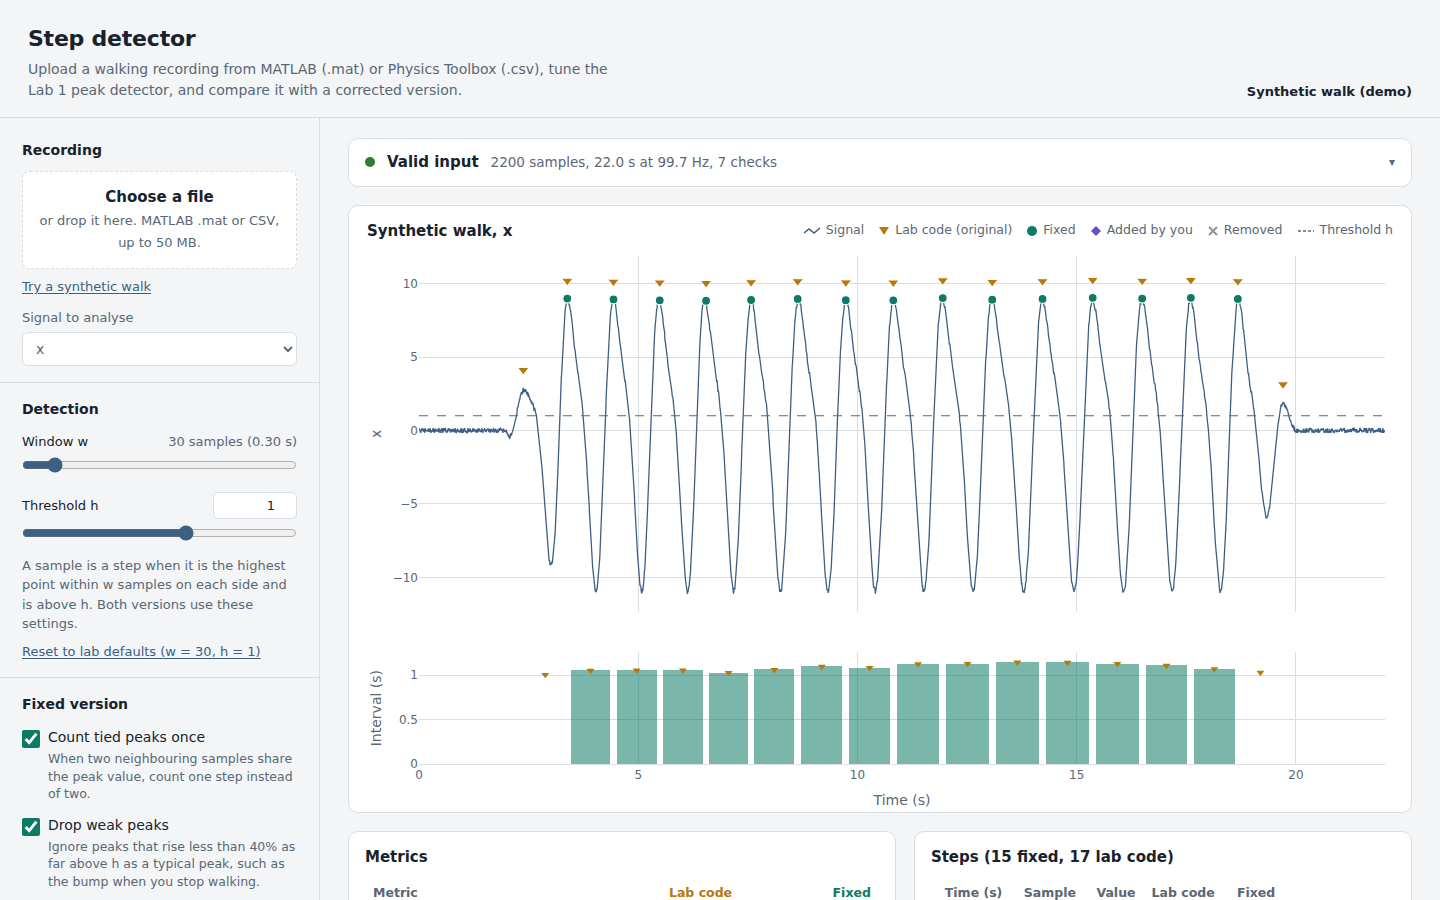
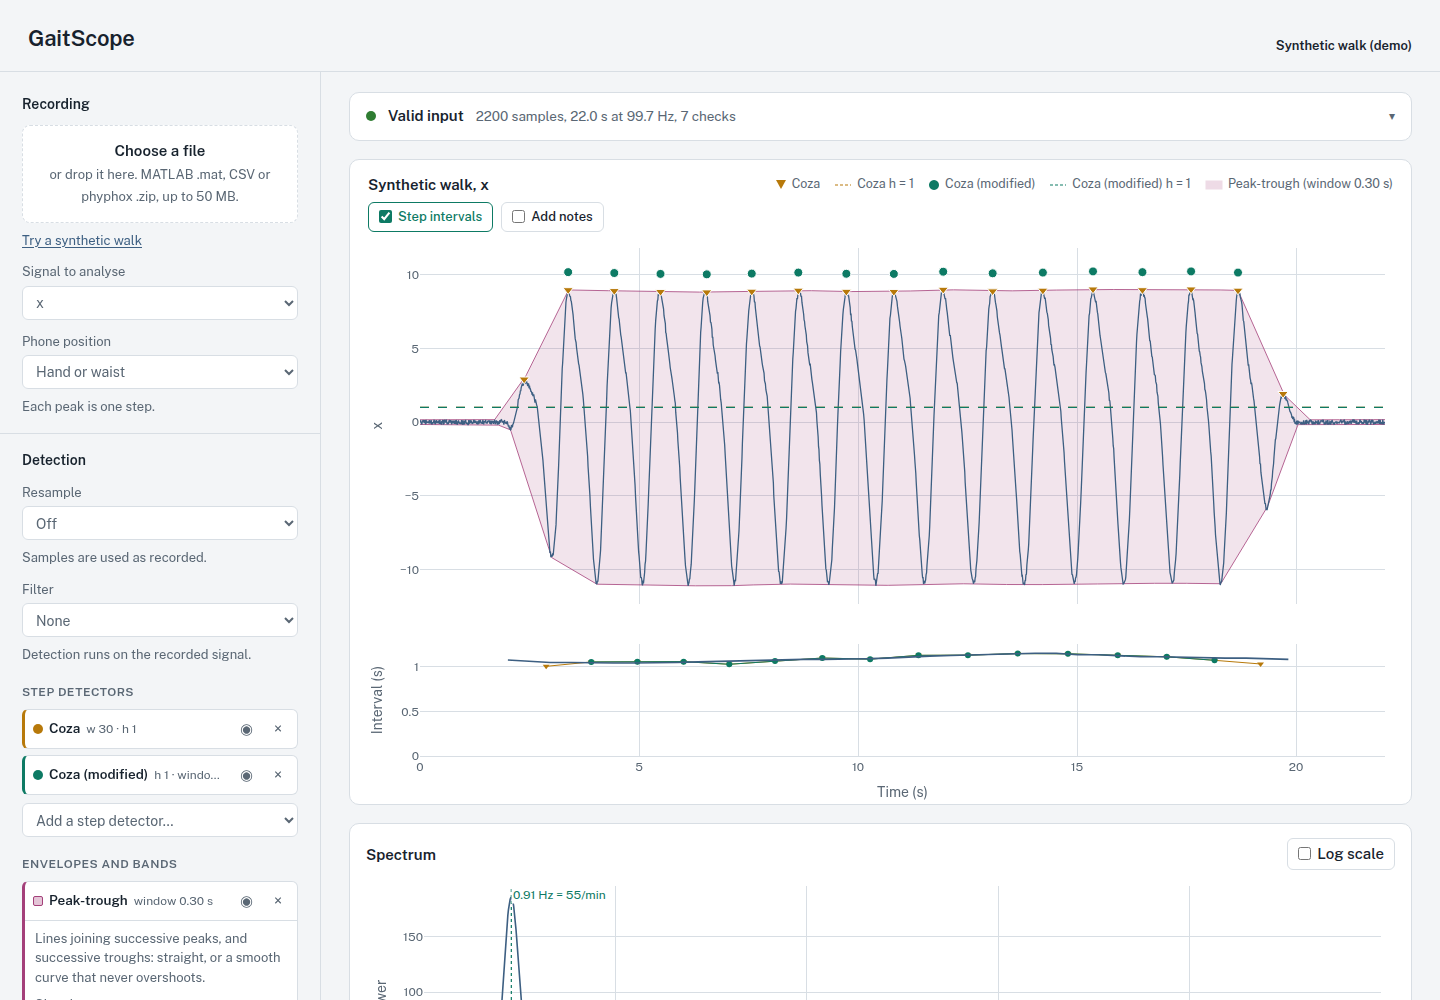
Rewrite the README for GaitScope as it is now
The README still opened with "Step detector" and a screenshot from the
first commit (one lab overlay, sliders, "Lab code" in the legend). It
now names the project, links the live page, and describes the current
scope in the order a user meets it: bring a walk, prepare the signal,
detect steps, read the results. Filters, the spectrum, the computed
vertical/horizontal signals, the steps table and record.js were
missing; the recorder says it hasn't been checked on a real phone yet
(#51); the GitHub Pages how-to gives way to the live link. A Credits
and licence section names Dr. Coza for Coza and the sample walk, and
Dr. Dianaty for Coza (modified), as the page does.

The screenshot is the synthetic walk at 1440 x 1000 in headless
Chromium, light theme, with Coza, Coza (modified), a peak-trough
envelope and the step intervals.

Claude-Session: https://claude.ai/code/session_01C5FY7wv8kPJg2FMx5dEAmw

diff --git a/README.md b/README.md
@@ -1,91 +1,123 @@
-# Step detector
+# GaitScope
 
-A browser dashboard and a Python port of the step-detection code from Lab 1 of
-*Wearable Devices for Sport, Health, and Wellness* (ASU, Fall 2026).
+Step detection and gait metrics from phone accelerometer recordings, in the browser.
 
-Upload a MATLAB `.mat` file, a [Physics Toolbox Sensor Suite](https://play.google.com/store/apps/details?id=com.chrystianvieyra.physicstoolboxsuite)
-CSV export or a [phyphox](https://phyphox.org) export zip. The dashboard checks that the file is usable, runs step detectors on it (Dr. Aurel
-Coza's Lab 1 peak detector, a corrected version, and textbook methods), and shows them
-side by side. You can then tune each one, add envelopes, pin notes, and export the
-results.
+**[Open GaitScope](https://soroushdianaty.com/gaitscope/)**. There is nothing to install, and
+your files never leave the browser.
 
-![Dashboard with a synthetic walk](docs/screenshot.png)
+GaitScope started as Lab 1 of *Wearable Devices for Sport, Health, and Wellness* (ASU, Fall
+2026): Dr. Aurel Coza's MATLAB step detector and a sample walk. It is now a dashboard that
+loads or records a walk, checks that the file is usable, and puts any number of step
+detectors and envelopes on the plot side by side, with filters, a spectrum, gait metrics
+and exports. A Python port of Coza's detector gives exactly the same steps as MATLAB.
 
-## Features
+![GaitScope with the synthetic walk: Coza and Coza (modified) on the plot, a peak-trough envelope, and the step intervals underneath](docs/screenshot.png)
 
-- **Upload** `.mat` files (MATLAB/Octave v5–v7, any variable name, structs searched)
-  or CSV files (Physics Toolbox G-Force, Linear Accelerometer, Gyroscope and Multi
-  Record exports, comma or semicolon separated, elapsed or clock time), or phyphox
-  export zips ("Acceleration with g" or "without g"; the phone, sensor chip and start
-  time from its `meta/` folder are listed with the checks).
-- **Record a walk** on a phone with the browser's motion sensors, with no app to
-  install. Open the page on the phone, tap Record, walk, then hold to stop. The page asks
-  how many steps you counted and where the phone was. The recording loads like an
-  uploaded file and downloads as a CSV that both the dashboard and the Python port read.
-  It needs https, which GitHub Pages provides, and the screen on while recording.
-- **Validation.** Every file is checked against an [input schema](docs/schema.md)
-  before analysis. Problems come with a concrete fix, such as the exact MATLAB line
-  to re-save a file in a format the page can't read.
+## What it does
+
+### Bring a walk
+
+- **Upload** a MATLAB `.mat` file (MATLAB or Octave, v5 to v7.3, any variable name,
+  structs searched), a [Physics Toolbox Sensor Suite](https://play.google.com/store/apps/details?id=com.chrystianvieyra.physicstoolboxsuite)
+  CSV export (G-Force Meter, Linear Accelerometer, Gyroscope or Multi Record; comma or
+  semicolon separated; elapsed or clock time), a [phyphox](https://phyphox.org) export zip
+  ("Acceleration with g" or "without g"), or any CSV with numbers in columns.
+- **Record a walk** on a phone with the browser's motion sensors, with no app to install.
+  Tap Record, walk, then hold to stop. The page asks how many steps you counted and where
+  the phone was, and compares your count with the detectors. The recording downloads as a
+  CSV that both the dashboard and the Python port read. It needs https (the live page has
+  it) and the screen on. So far it has been tested with emulated sensors; the checks on
+  real phones are in [#51](https://github.com/soroushdty/gaitscope/issues/51).
+- **Validation.** Every file is checked against an [input schema](docs/schema.md) before
+  analysis. Each problem comes with a concrete fix, such as the exact MATLAB line to re-save
+  a file in a format the page can read.
+
+### Prepare the signal
+
+- **Signal to analyse:** x, y, z or the magnitude. When the recording includes gravity,
+  also the vertical (along gravity) and horizontal (across it) acceleration.
 - **Resample** to a rate you choose, or just even out a phone's uneven timing, before
   anything else runs. This is linear (like MATLAB `interp1`) or monotone cubic, with an
   optional anti-aliasing low-pass. It matches the Python port's `--resample` bit for bit,
   so Coza finds the same steps in both.
+- **Filter:** Butterworth, Bessel, Chebyshev I and II, and elliptic (low-pass or band-pass,
+  order 2 to 6), moving average, median, Savitzky–Golay, wavelet denoising (Daubechies-4)
+  and notch. Each matches scipy (or PyWavelets) within 1e-9. Every detector and envelope
+  can use either the filtered or the recorded signal.
+
+### Detect steps
+
 - **Step detectors and envelopes as chart indicators.** Put any number on the plot at
-  once, in any mix, like indicators on a trading chart. Each has its own settings,
-  colour, source signal (filtered or not), show/hide and remove, and gets its own metrics
-  column. The page opens with **Coza**, Dr. Aurel Coza's Lab 1 detector exactly as
-  written, bugs included, beside **Coza (modified)**, the same detector with its bugs
-  fixed: it counts tied peaks once, drops start/stop artefacts, uses real timestamps, and
-  reports cadence. Set Phone position to *One leg* and each peak counts as a stride.
-  Three textbook detectors and six envelopes and bands can be added.
-  See [docs/algorithm.md](docs/algorithm.md).
-- **Notes on the plot.** Pin a short note to a moment in the recording ("turned
-  around", "stairs"). Notes are listed under the plot and included in the metrics
-  export; they never change the detected steps.
-- **Export** in the format each tool wants: the two CSV files as before, a zip with one CSV
-  per table, MATLAB `.mat` (a struct, for MATLAB or Octave), NumPy `.npz` (no
-  pickle), or JSON, which reopens the whole analysis in the dashboard. Each holds the
-  signals, both versions' steps and metrics, the settings and the notes, with 1-based
-  sample numbers ([docs/export.md](docs/export.md)).
-- **Private.** Files are processed in the browser and never uploaded.
+  once, in any mix, like indicators on a trading chart. Each has its own settings, colour,
+  source signal, show/hide and remove, and gets its own metrics column.
+  - **Coza:** Dr. Aurel Coza's Lab 1 detector exactly as written, bugs included.
+  - **Coza (modified):** the same detector with its bugs fixed. It counts tied peaks once,
+    drops start/stop artefacts, uses real timestamps, and reports cadence.
+  - **Threshold peaks, Peak-to-valley and Zero-crossing:** three textbook detectors.
+  - **Envelopes and bands:** sliding window, peak-trough, dynamic threshold, mean ± k·SD,
+    Hilbert envelope and percentile band. They are a view only and never change the steps.
 
-## Run it
+  The page opens with Coza beside Coza (modified). How each one works, and what is wrong
+  with Coza's code, is in [docs/algorithm.md](docs/algorithm.md).
+- **Phone position:** hand or waist (each peak is a step) or one leg (each peak is a
+  stride).
 
-The dashboard is a static page with no build step.
+### Read the results
+
+- **Metrics** for each detector: steps, average step duration, cadence, step-time
+  variability, gait asymmetry, walking span and harmonic ratio. While a Coza is shown,
+  rows marked "Coza's formula" reproduce the `.m` file's own outputs exactly.
+- **Spectrum** (Welch's method, like scipy). Walking shows as a peak, which gives a cadence
+  with no step detection at all, to cross-check the detectors. With a filter on, it also
+  shows what the filter removes.
+- **Step intervals** under the plot: the time between steps for each detector, next to the
+  spectrum's main rhythm over time.
+- **Steps table:** every step any detector marked, and the weak peaks Coza (modified)
+  dropped.
+- **Notes on the plot.** Pin a short note to a moment in the recording ("turned around",
+  "stairs"). Notes are listed under the plot and exported; they never change the steps.
+- **Export** in the format each tool wants: CSV files, a zip with one CSV per table,
+  MATLAB `.mat` (a struct, for MATLAB or Octave), NumPy `.npz` (no pickle), or JSON, which
+  reopens the whole analysis in GaitScope. Sample numbers are 1-based, as in MATLAB
+  ([docs/export.md](docs/export.md)).
+
+## Run it locally
+
+GaitScope is a static page with no build step.
 
 ```bash
 python3 -m http.server 8000     # or: npm run serve
 # open http://localhost:8000
 ```
 
-Opening `index.html` directly from disk also works. Plotly and pako load from the
-jsDelivr CDN, so an internet connection is needed.
-
-**To publish it for classmates:** in the GitHub repo, go to *Settings → Pages* and
-deploy from the `main` branch, root folder. The page will be at
-`https://<user>.github.io/<repo>/`.
+Opening `index.html` directly from disk also works. Plotly and pako load from the jsDelivr
+CDN, so an internet connection is needed; jsfive, for MATLAB v7.3 files, loads only when
+one is opened. The live copy is served by GitHub Pages from `main`.
 
 ## Python port
 
-`python/lab_step_det.py` is a 1:1 translation of `LabStepDet_2025.m`. It also reads
-Physics Toolbox CSV exports and phyphox export zips (or the `Raw Data.csv` inside): the
-time, x, y and z columns are put in the Walking.mat layout, so `--col 2/3/4` picks x/y/z.
-For a zip it also prints the phone, sensor chip, start time and length from `meta/`, and
-warns if the recording was paused (phyphox's time leaves pauses out, so the stretches are
-joined with no gap). phyphox records in m/s², while Coza's `h = 1` assumes g:
-`--to-g` divides x, y and z by 9.80665 first. It warns when the data reaching Coza's algorithm is not
-within 5% of 100 Hz, because it divides by 100 to get seconds and counts its
-window `w` in samples. The rate comes from the time column of CSV exports and of `.mat`
-files in the Walking.mat layout, after any `--resample` (so `--resample 50` warns too).
-Physics Toolbox only lets you choose the rate in the paid version, and the free version
-records at about 460 Hz. `--resample 100` linearly interpolates the recording onto a
-100 Hz grid first (MATLAB: `interp1(t, A, 0:0.01:t(end))`). `--resample-method pchip`
-uses a monotone cubic instead, and `--antialias` low-passes below the new Nyquist frequency
-first when going down in rate.
-The detector itself is unchanged. `--export FILE` saves the result in the dashboard's
-export layout ([docs/export.md](docs/export.md)) as `.json`, `.mat`, `.npz` or a `.zip` of
-CSV files, with Coza's steps and metrics. `.mat` files can be any version: v5–v7 are read with scipy, v7.3 (HDF5) with
-h5py. A missing or non-numeric `--var` says which variables the file has.
+`python/lab_step_det.py` is a 1:1 translation of Coza's `LabStepDet_2025.m`. On
+`Walking.mat` it gives the same steps and metrics as the original script running in GNU
+Octave, and as the dashboard's Coza.
+
+- **Files:** `.mat` files of any version (v5 to v7 with scipy, v7.3 with h5py), Physics
+  Toolbox CSV exports, and phyphox zips (or the `Raw Data.csv` inside). Time, x, y and z
+  are put in the Walking.mat layout, so `--col 2/3/4` picks x/y/z. A missing or
+  non-numeric `--var` says which variables the file has.
+- **phyphox:** prints the phone, sensor chip, start time and length from `meta/`, and warns
+  if the recording was paused (phyphox's time leaves pauses out, so the stretches are joined
+  with no gap). phyphox records in m/s², while Coza's `h = 1` assumes g: `--to-g` divides
+  x, y and z by 9.80665 first.
+- **Sampling rate:** Coza divides by 100 to get seconds and counts its window `w` in
+  samples, so the port warns when the data is not within 5% of 100 Hz. The rate comes from
+  the time column, after any `--resample`. The free Physics Toolbox records at about
+  460 Hz. `--resample 100` linearly interpolates onto a 100 Hz grid first (MATLAB:
+  `interp1(t, A, 0:0.01:t(end))`); `--resample-method pchip` uses a monotone cubic instead,
+  and `--antialias` low-passes below the new Nyquist frequency first when going down in
+  rate. The detector itself is unchanged.
+- **Export:** `--export FILE` saves Coza's steps and metrics in the dashboard's export
+  layout ([docs/export.md](docs/export.md)), as `.json`, `.mat`, `.npz` or a `.zip` of CSV
+  files.
 
 ```bash
 uv sync                          # once per clone: creates .venv from uv.lock (Python ≥ 3.12)
@@ -106,15 +138,17 @@ uv run python scripts/make_fixtures.py  # regenerate tests/fixtures after changi
 bash scripts/octave_parity.sh    # original .m in GNU Octave vs the Python port
 ```
 
+The filters, spectra, envelopes and resampling are checked against scipy, numpy and
+PyWavelets, and the exports are read back with scipy, numpy, Python's `zipfile` and `csv`,
+and Octave. All fixtures are generated from a synthetic walk. The course files
+(`Walking.mat`, `LabStepDet_2025.m`) are **not** committed. If you put them in `data/`, the
+MATLAB-parity tests run as well; otherwise they are skipped.
+
 GNU Octave is only for these developer checks: the parity script, and a test that loads a
 `.mat` export in Octave (skipped when Octave is missing, as in CI). Nobody needs it to use
 the dashboard or the Python port, which write `.mat` files themselves. It isn't a Python
 package, so it isn't in `pyproject.toml`; on Ubuntu or Debian, install the command-line
 version (about 80 MB) with `sudo apt install --no-install-recommends octave`.
-
-All fixtures are generated from a synthetic walk. The course files (`Walking.mat`,
-`LabStepDet_2025.m`) are **not** committed. If you put them in `data/`, the
-MATLAB-parity tests run as well; otherwise they are skipped.
 
 ## Contributing
 
@@ -125,20 +159,29 @@ Changes go through a branch and a pull request with atomic commits. See
 ## Layout
 
 ```
-index.html            dashboard page
-src/core.js           parsing, validation and detection (no DOM; also runs in Node)
-src/app.js            dashboard UI: controls, Plotly figure, export
+index.html            the dashboard page
+src/core.js           parsing, validation, filters, spectra, detectors, export (no DOM; also runs in Node)
+src/app.js            dashboard UI: controls, indicators, Plotly figures, export
+src/record.js         recording a walk with the phone's motion sensors
 src/styles.css        light and dark themes
 python/               Python port and plotting script
-tests/                Node and pytest suites, generated fixtures
+tests/                Node (jsdom) and pytest suites, generated fixtures
 scripts/              fixture generator, Octave parity check
-docs/                 input schema, algorithm notes, export formats, contributions
+docs/                 input schema, algorithms, export formats, contributions
 data/                 local course files (git-ignored)
 ```
 
+## Credits and license
+
+- **Coza** and the Lab 1 sample walk: Dr. Aurel Coza. The page's sample is a synthetic walk
+  of our own; the course files stay out of this repository.
+- **Coza (modified):** Dr. Soroush Dianaty.
+
+MIT License; see [LICENSE](LICENSE).
+
 ## Notes
 
-- The algorithm is a port of course material provided by the instructor. Check the
-  course policy before making this repository public.
-- MATLAB v7.3 files (HDF5) are read with jsfive, loaded only when one is opened. Cell
-  arrays, strings, sparse and complex data inside them are listed but not analysed.
+- MATLAB v7.3 files (HDF5) are read with jsfive. Cell arrays, strings, sparse and complex
+  data inside them are listed but not analysed.
+- Files with no time column are assumed to be at 100 Hz; the rate can be changed on the
+  page.
